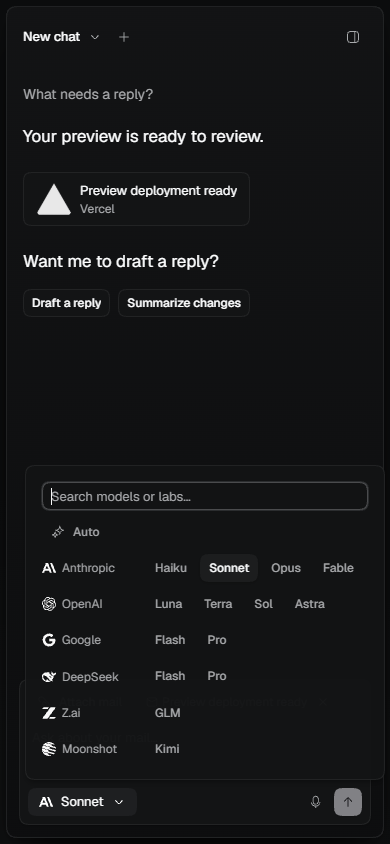
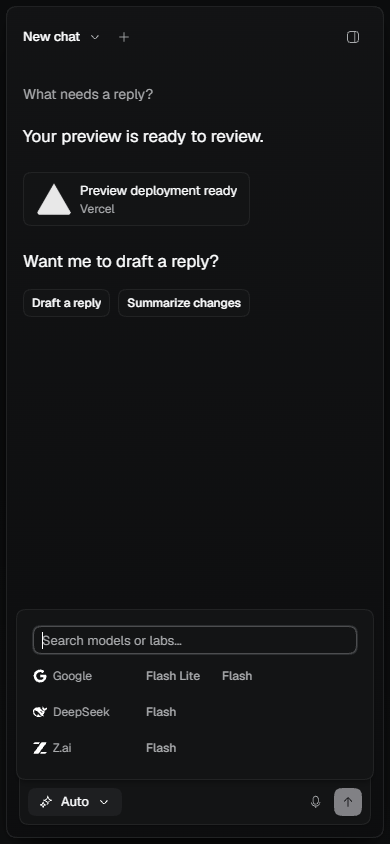
fix(chat): complete model choices and address review feedback

diff --git a/apps/web/src/features/chat/components/mail-reference.tsx b/apps/web/src/features/chat/components/mail-reference.tsx
@@ -30,7 +30,7 @@ export const MailReference = ({
       (query) => query.data?.pages.flatMap((page) => page.messages) ?? []
     )
     .find((message) => message.id === reference.messageId);
-  const threadId = reference.threadId ?? cachedMessage?.threadId;
+  const threadId = cachedMessage?.threadId ?? reference.threadId;
   const { data: thread } = useQuery(
     getThreadWithDetailsOptions(
       workspace?.mailboxId ?? "",
@@ -43,7 +43,10 @@ export const MailReference = ({
     cachedMessage;
   const sender = parseSender(message?.from ?? reference.from);
   const senderLabel = sender.name || sender.email || sender.display;
-  const subject = reference.subject || (children ?? "Open email");
+  const subjectLabel = message
+    ? message.subject?.trim() || "Untitled mail"
+    : reference.subject;
+  const subject = subjectLabel || (children ?? "Open email");
   const openMessage = async () => {
     workspace?.control.cancel();
     try {
@@ -51,7 +54,7 @@ export const MailReference = ({
         {
           mailbox: "inbox",
           messageId: reference.messageId,
-          threadId: reference.threadId ?? null,
+          threadId: threadId ?? null,
           view: "inbox",
         },
         { replace: false }
@@ -72,9 +75,9 @@ export const MailReference = ({
       }}
       size="auto"
       title={
-        reference.from
-          ? `${reference.subject ?? "Email"}, ${reference.from}`
-          : reference.subject
+        senderLabel
+          ? `${subjectLabel ?? "Email"}, ${senderLabel}`
+          : subjectLabel
       }
       type="button"
       variant="outline"
@@ -86,9 +89,9 @@ export const MailReference = ({
       />
       <span className="flex min-w-0 flex-col">
         <span className="truncate">{subject}</span>
-        {reference.from ? (
+        {senderLabel ? (
           <span className="truncate text-caption text-muted-fg">
-            {reference.from}
+            {senderLabel}
           </span>
         ) : null}
       </span>

diff --git a/apps/web/src/features/chat/components/chat-model-picker.tsx b/apps/web/src/features/chat/components/chat-model-picker.tsx
@@ -88,6 +88,7 @@ export const ChatModelPicker = ({
       <PopoverContent
         align="start"
         className="flex max-h-(--available-height) w-90 flex-col"
+        collisionPadding={16}
         side="top"
         size="sm"
       >
@@ -116,7 +117,15 @@ export const ChatModelPicker = ({
         />
         <div className="mt-2 flex max-h-72 min-h-0 flex-col gap-2 overflow-y-auto">
           {autoMatches ? (
-            <div>
+            <div className="flex items-start gap-2">
+              <span className="flex w-24 shrink-0 items-center gap-1.5 py-1.5 text-caption text-muted-fg">
+                <HugeiconsIcon
+                  aria-hidden
+                  className="size-3.5 shrink-0"
+                  icon={SparklesIcon}
+                />
+                Automatic
+              </span>
               <Button
                 aria-pressed={model === "auto"}
                 onClick={() => {
@@ -125,7 +134,6 @@ export const ChatModelPicker = ({
                 size="compact"
                 variant="option"
               >
-                <HugeiconsIcon aria-hidden icon={SparklesIcon} />
                 Auto
               </Button>
             </div>
@@ -152,7 +160,7 @@ export const ChatModelPicker = ({
                     size="compact"
                     variant="option"
                   >
-                    {option.label.replace(/^(?:Gemini|DeepSeek) /u, "")}
+                    {option.label.replace(/^(?:Gemini|DeepSeek|GLM) /u, "")}
                   </Button>
                 ))}
               </div>

diff --git a/packages/ai/src/chat-models.ts b/packages/ai/src/chat-models.ts
@@ -51,15 +51,15 @@ export const chatModels = [
   },
   {
     group: "google",
+    label: "Gemini Flash Lite",
+    value: "google/gemini-3.5-flash-lite",
+    versions: ["google/gemini-2.5-flash-lite", "google/gemini-3.1-flash-lite"],
+  },
+  {
+    group: "google",
     label: "Gemini Flash",
     value: "~google/gemini-flash-latest",
-    versions: [
-      "google/gemini-2.5-flash-lite",
-      "google/gemini-3.1-flash-lite",
-      "google/gemini-3.5-flash-lite",
-      "google/gemini-3.6-flash",
-      "google/gemini-3.7-flash",
-    ],
+    versions: ["google/gemini-3.6-flash", "google/gemini-3.7-flash"],
   },
   {
     group: "google",
@@ -78,6 +78,12 @@ export const chatModels = [
     label: "DeepSeek Pro",
     value: "~deepseek/deepseek-pro-latest",
     versions: ["deepseek/deepseek-v4-pro"],
+  },
+  {
+    group: "z-ai",
+    label: "GLM Flash",
+    value: "~z-ai/glm-flash-latest",
+    versions: [],
   },
   {
     group: "z-ai",

diff --git a/packages/ui/src/components/ui/popover.tsx b/packages/ui/src/components/ui/popover.tsx
@@ -27,6 +27,7 @@ export const PopoverContent = ({
   alignOffset = 0,
   children,
   className,
+  collisionPadding,
   side = "bottom",
   sideOffset = 8,
   size = "default",
@@ -34,7 +35,7 @@ export const PopoverContent = ({
 }: ComponentPropsWithoutRef<typeof PopoverPrimitive.Popup> &
   Pick<
     ComponentPropsWithoutRef<typeof PopoverPrimitive.Positioner>,
-    "align" | "alignOffset" | "side" | "sideOffset"
+    "align" | "alignOffset" | "collisionPadding" | "side" | "sideOffset"
   > & {
     size?: "default" | "sm";
   }) => (
@@ -43,6 +44,7 @@ export const PopoverContent = ({
       align={align}
       alignOffset={alignOffset}
       className="isolate z-50"
+      collisionPadding={collisionPadding}
       side={side}
       sideOffset={sideOffset}
     >

diff --git a/apps/web/src/features/message-thread/components/message-detail.tsx b/apps/web/src/features/message-thread/components/message-detail.tsx
@@ -20,6 +20,7 @@ import type { MessageViewProps } from "./message-view-types";
 
 type MessageDetailProps = {
   activeMailbox: MailboxCategory;
+  detailOnly?: boolean;
   composeDemoMode?: boolean;
   composeManagedDemoMode?: boolean;
   composePersistDrafts?: boolean;
@@ -40,6 +41,7 @@ type MessageDetailProps = {
 
 export const MessageDetail = ({
   activeMailbox,
+  detailOnly,
   composeDemoMode,
   composeManagedDemoMode,
   composePersistDrafts,
@@ -93,6 +95,7 @@ export const MessageDetail = ({
       >
         <MessageView
           activeMailbox={activeMailbox}
+          detailOnly={detailOnly}
           composeDemoMode={composeDemoMode}
           composeManagedDemoMode={composeManagedDemoMode}
           composePersistDrafts={composePersistDrafts}

diff --git a/packages/ai/src/openrouter.ts b/packages/ai/src/openrouter.ts
@@ -47,10 +47,11 @@ export const readChatUsageCostUsd = (
  */
 export const createChatModel = (
   model: ChatModel,
-  options?: { prioritizeLatency?: boolean }
+  options?: { allowFallbacks?: boolean; prioritizeLatency?: boolean }
 ) => {
   const parsedModel = chatModelSchema.parse(model);
-  const fallbacks = resolveModelFallbacks(parsedModel);
+  const fallbacks =
+    options?.allowFallbacks === false ? [] : resolveModelFallbacks(parsedModel);
   return wrapLanguageModel({
     middleware: openRouterStreamMiddleware,
     model: getOpenRouterProvider().chat(parsedModel, {

diff --git a/apps/web/src/features/message-thread/components/message-view.tsx b/apps/web/src/features/message-thread/components/message-view.tsx
@@ -83,6 +83,7 @@ const MessageViewContent = (props: MessageViewContentProps) => {
     composeSenderMailbox,
     composeSignature,
     currentUserEmail,
+    detailOnly = false,
     gmailLabels,
     hotkeyLinkedDraftMessage,
     hotkeyMessage,
@@ -267,7 +268,7 @@ const MessageViewContent = (props: MessageViewContentProps) => {
               />
             </div>
           )}
-          <div className="shrink-0 lg:hidden">
+          <div className={cn("shrink-0", { "lg:hidden": !detailOnly })}>
             <AssistantSidebarTrigger />
           </div>
         </div>

diff --git a/packages/orpc/src/chat/service.ts b/packages/orpc/src/chat/service.ts
@@ -1550,7 +1550,9 @@ export const createAiChatResponse = async (input: {
   ].join("\n\n");
 
   const usageId = crypto.randomUUID();
-  const model = createChatModel(validated.model);
+  const model = createChatModel(validated.model, {
+    allowFallbacks: false,
+  });
   input.request.signal.throwIfAborted();
   if (validated.kind === "continue" && persistedAssistantParts !== null) {
     const resolvedParts: ChatMessagePart[] = transcript.at(-1)?.parts ?? [];

diff --git a/packages/ai/src/model-config.ts b/packages/ai/src/model-config.ts
@@ -31,7 +31,7 @@ export const resolveConfiguredModel = (
 };
 
 /**
- * Interactive choices use each family's native latest alias. Auto selects
+ * Interactive choices follow each family's newest version. Auto selects
  * the family configured by QuieterChatModel, including existing pinned ids.
  * Server-only: clients must not import this module.
  */

diff --git a/apps/web/src/features/mailbox/components/mailbox-workspace/mailbox-messages-panel.tsx b/apps/web/src/features/mailbox/components/mailbox-workspace/mailbox-messages-panel.tsx
@@ -215,6 +215,7 @@ export const MailboxMessagesPanel = ({
         {isMessageRouteOpen ? (
           <MessageDetail
             activeMailbox={activeMailbox}
+            detailOnly={detailOnly}
             composeDemoMode={isDemoMode}
             composeManagedDemoMode={isManagedDemoMode}
             composePersistDrafts={persistComposeDrafts}

diff --git a/apps/web/src/features/message-thread/components/message-view-types.ts b/apps/web/src/features/message-thread/components/message-view-types.ts
@@ -9,6 +9,7 @@ import type { MailboxCategory, MessageListItem } from "#/lib/mail";
 
 export type MessageViewProps = {
   activeMailbox: MailboxCategory;
+  detailOnly?: boolean;
   composeDemoMode?: boolean;
   composeManagedDemoMode?: boolean;
   composePersistDrafts?: boolean;

diff --git a/docs/development.md b/docs/development.md
@@ -80,7 +80,7 @@ Local development requires only the values needed by the paths you exercise. Imp
 - Polar: checkout and subscription flows
 - PostHog, Sentry, and logo.dev: optional integrations
 
-Interactive chat selects model families through OpenRouter's [latest aliases](https://openrouter.ai/docs/guides/routing/routers/latest-resolution), so releases update without redeploying. `QuieterChatModel` chooses the Auto family; existing concrete chat identifiers normalize to that family's latest alias. Explicit family choices stay within that family when a provider is unavailable.
+Interactive chat selects model families through OpenRouter's [latest aliases](https://openrouter.ai/docs/guides/routing/routers/latest-resolution), so releases update without redeploying. Flash Lite has no dedicated alias and is pinned to the current stable version in `chat-models.ts`; update it when a new release ships. `QuieterChatModel` chooses the Auto family; existing concrete chat identifiers normalize to that family. Explicit family choices stay within that family when a provider is unavailable.
 
 ## Running
 
